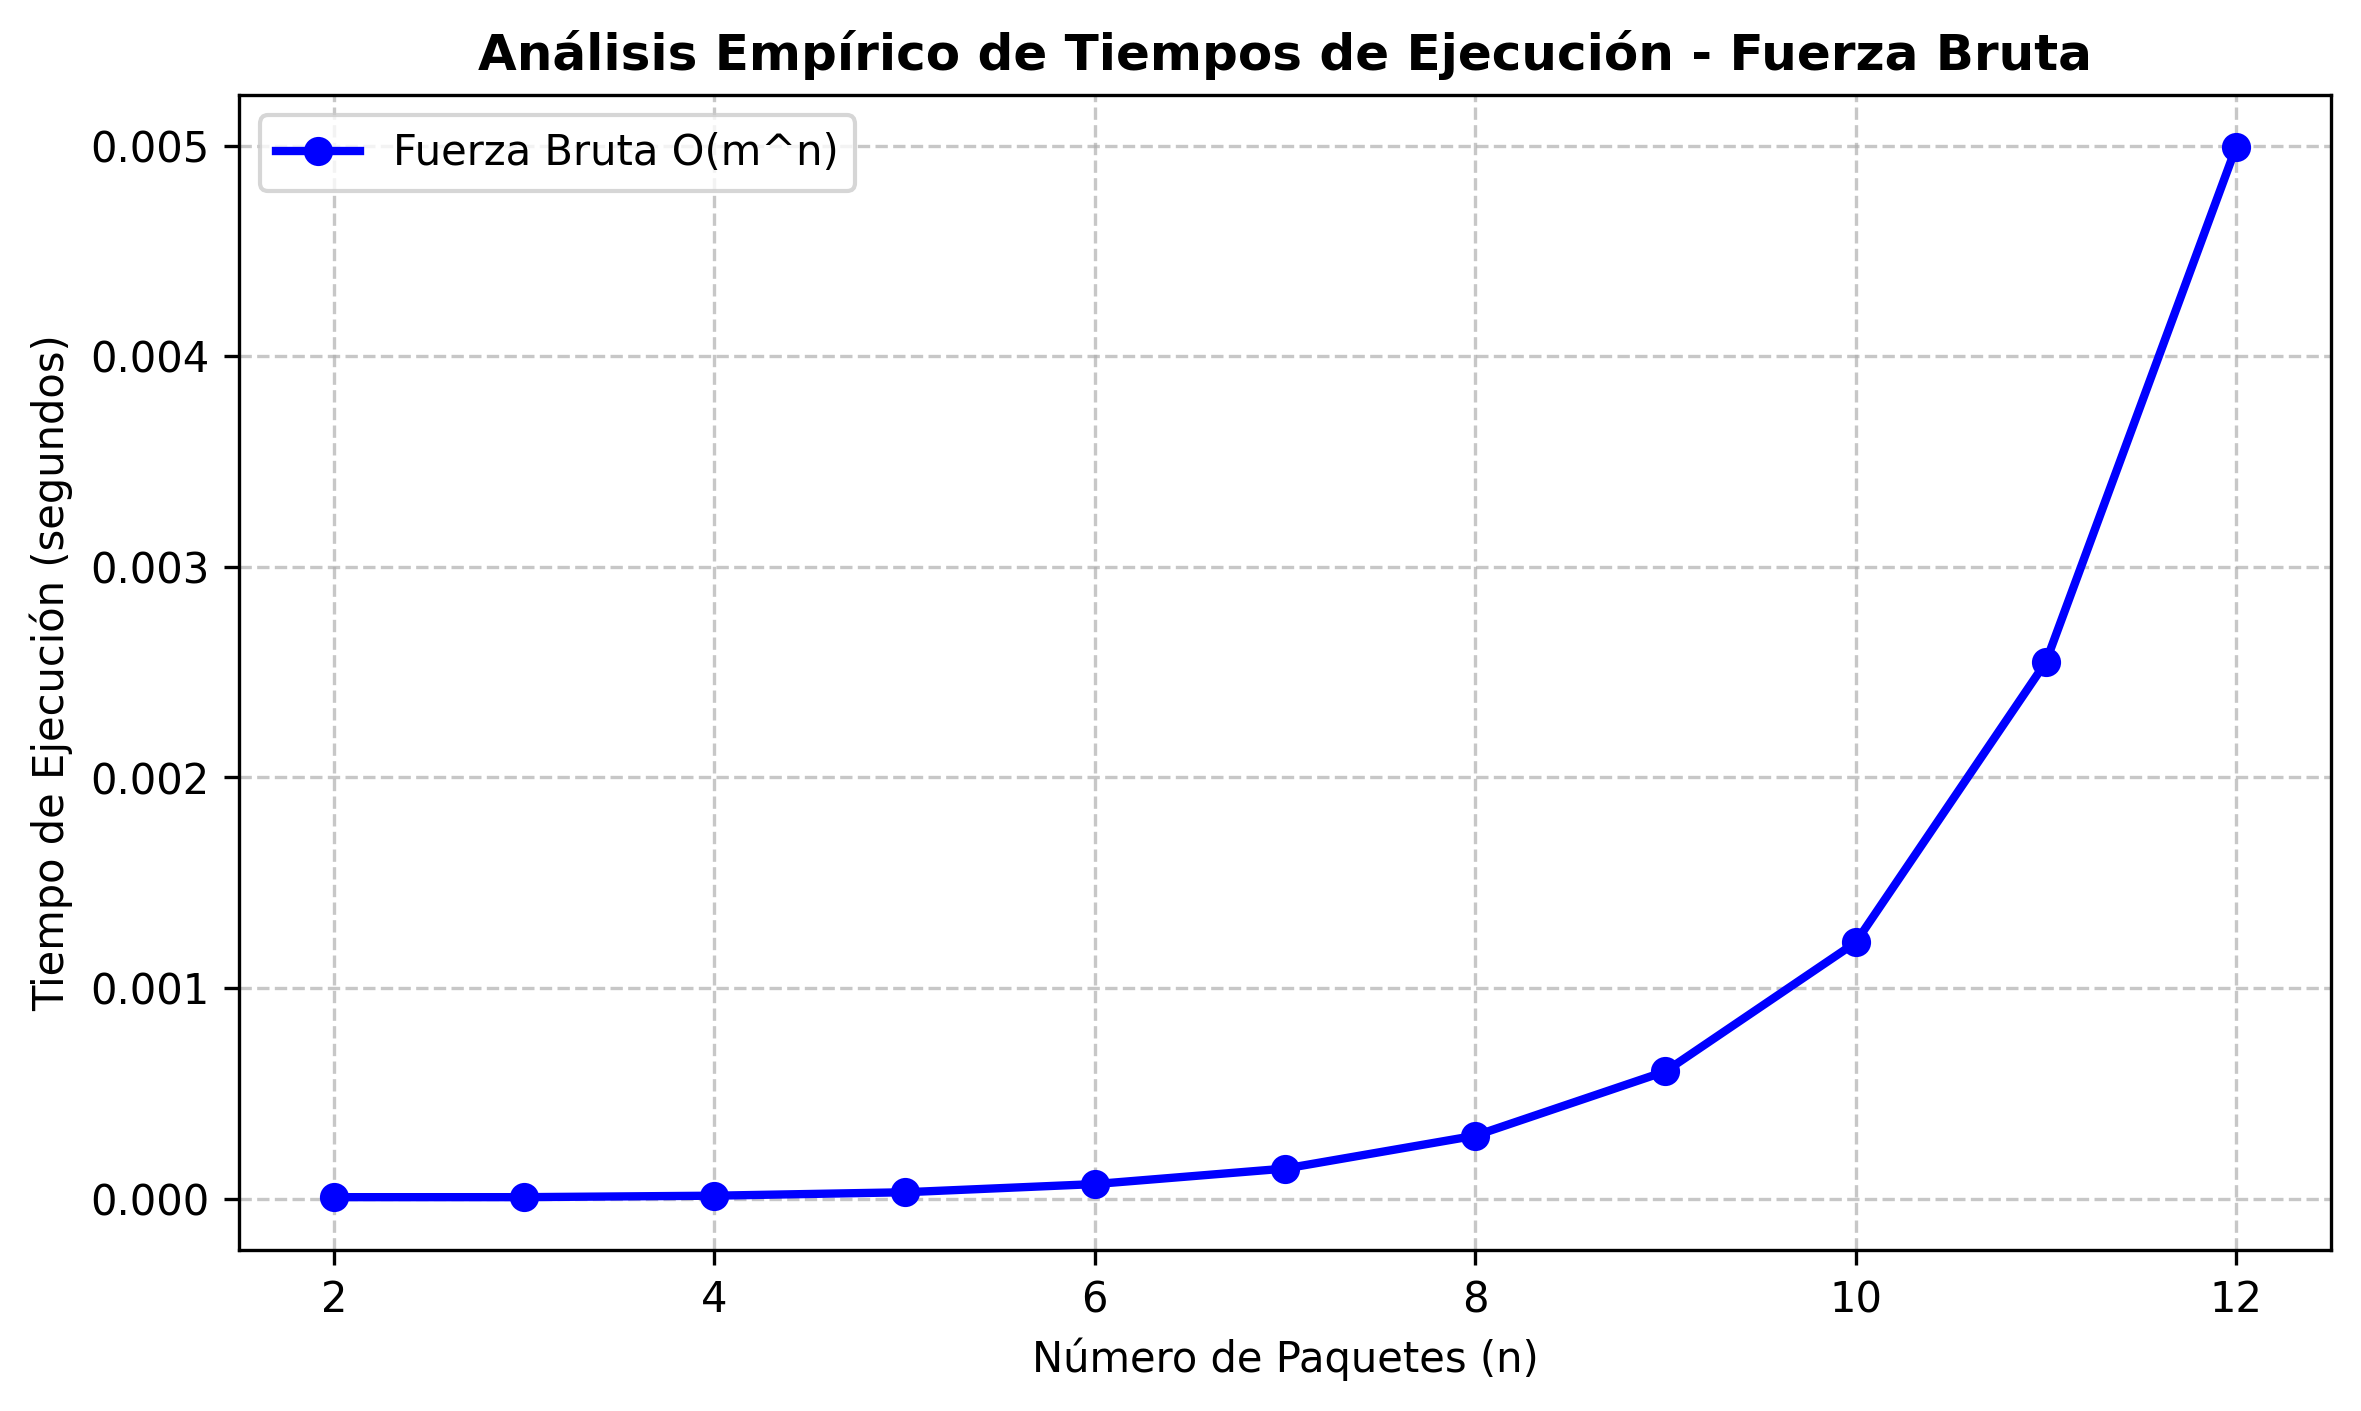
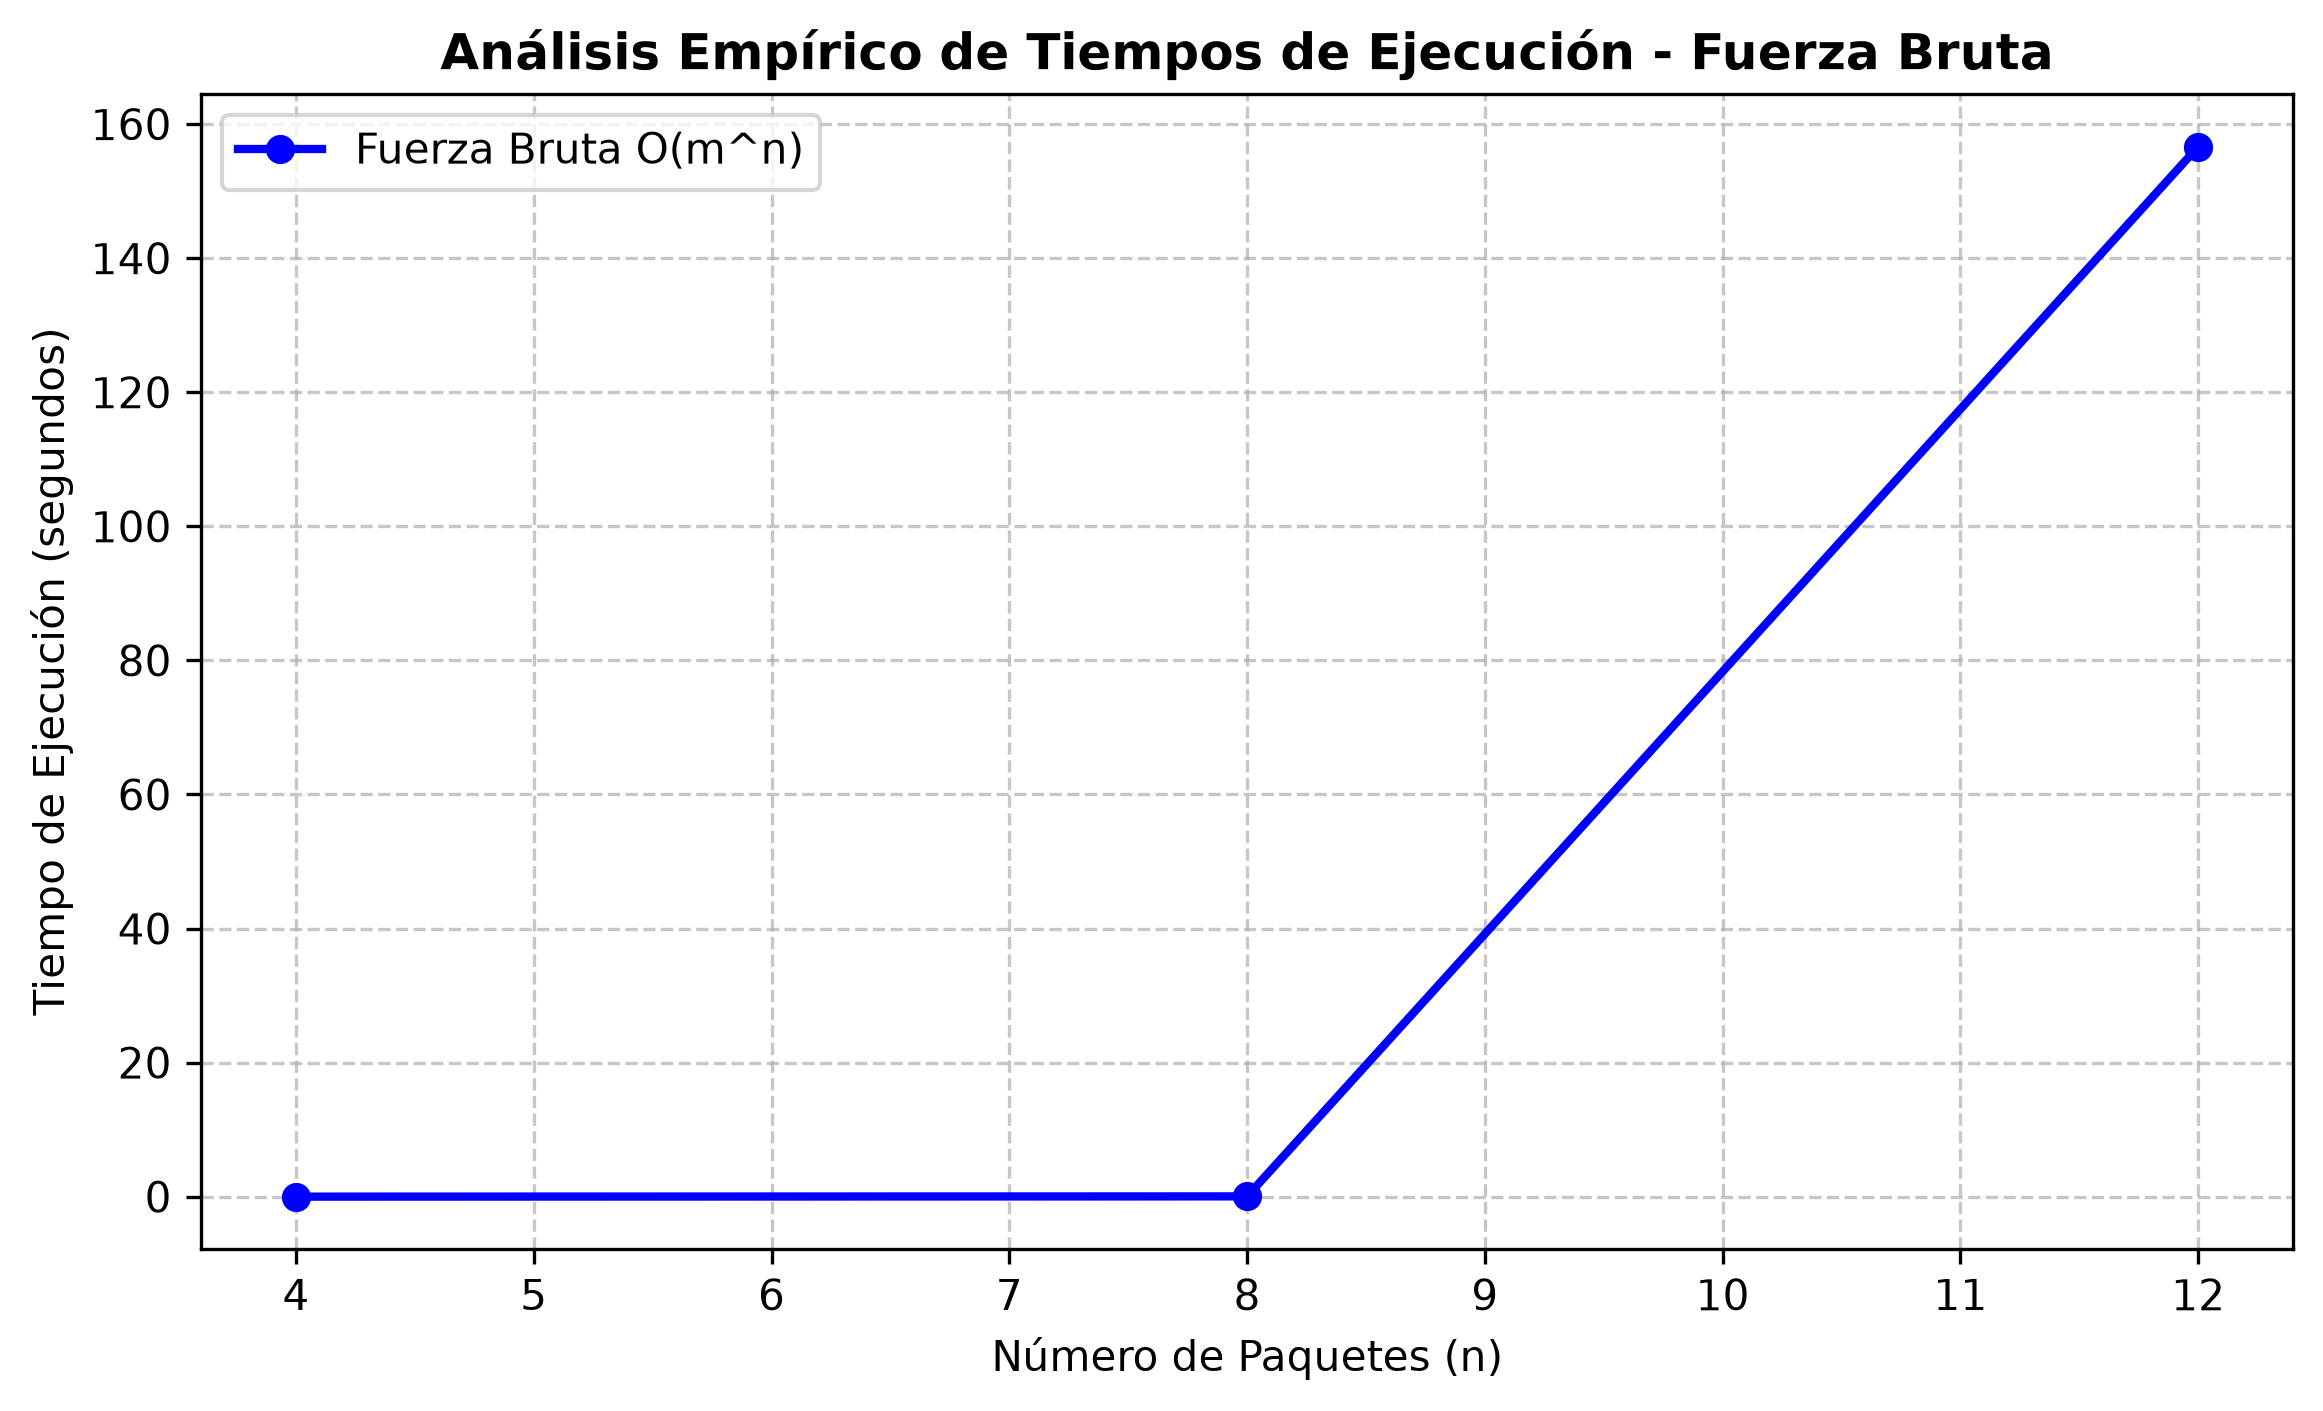
refactor: correccion de ejecutar comparativa para tomar los datos del los txt y los casos usados en fuerza bruta ademas de grafica de tiempo y medicion empirica

diff --git a/src/comparativa.py b/src/comparativa.py
@@ -2,22 +2,22 @@ import os
 import sys
 import time
 import matplotlib.pyplot as plt
-from fuerza_bruta import fuerza_bruta
+from fuerza_bruta import fuerza_bruta, cargar_casos
 
-def generar_caso_temporal(num_paquetes, num_camiones=2, capacidad_camion=30):
-    """Crea las listas de camiones y paquetes para n paquetes."""
-    camiones = [{"id": f"C{i+1}", "capacidad": capacidad_camion} for i in range(num_camiones)]
-    paquetes = [{"id": f"P{i+1}", "peso": (i % 5) + 3} for i in range(num_paquetes)]
-    return camiones, paquetes
 
 def ejecutar_comparativa():
-    cantidades_paquetes = range(2, 13)  # n de 2 a 12
+    casos = [
+        ("pequeño", "datos/caso_pequeno.txt"),
+        ("mediano", "datos/caso_mediano.txt"),
+        ("grande", "datos/caso_grande.txt")
+    ]
+    cantidades_paquetes = []  
     tiempos = []
 
     print("Iniciando medición empírica de tiempos de ejecución...")
 
-    for n in cantidades_paquetes:
-        camiones, paquetes = generar_caso_temporal(n)
+    for nombre, ruta in casos:
+        camiones, paquetes = cargar_casos(ruta)
         
         # Ocultar los print de fuerza_bruta para que la consola no colapse con n=12
         sys.stdout = open(os.devnull, 'w')
@@ -32,10 +32,11 @@ def ejecutar_comparativa():
 
         tiempo_ejecucion = fin - inicio
         
-        
+        cantidades_paquetes.append(len(paquetes))
         tiempos.append(tiempo_ejecucion)
 
-        print(f"Paquetes (n={n}): Combinaciones={total} | Tiempo={tiempo_ejecucion:.6f}s")
+        print( f"{nombre}: " f"Paquetes={len(paquetes)} | " f"Combinaciones={total} | " f"Tiempo={tiempo_ejecucion:.6f}s" )
+        
 
     # Generar y guardar la gráfica en la carpeta src/
     plt.figure(figsize=(9, 5))
